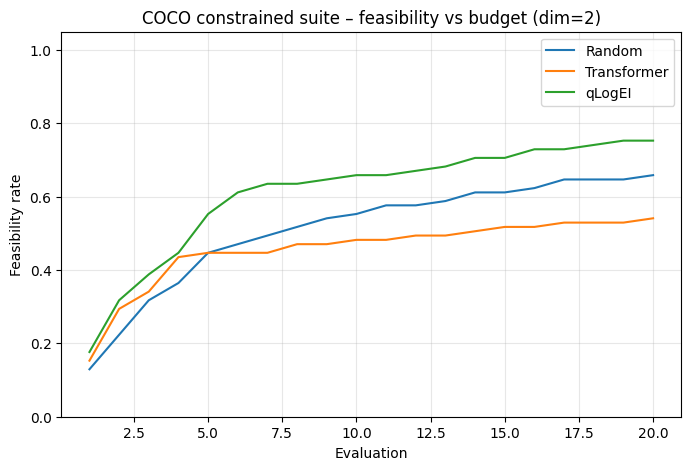
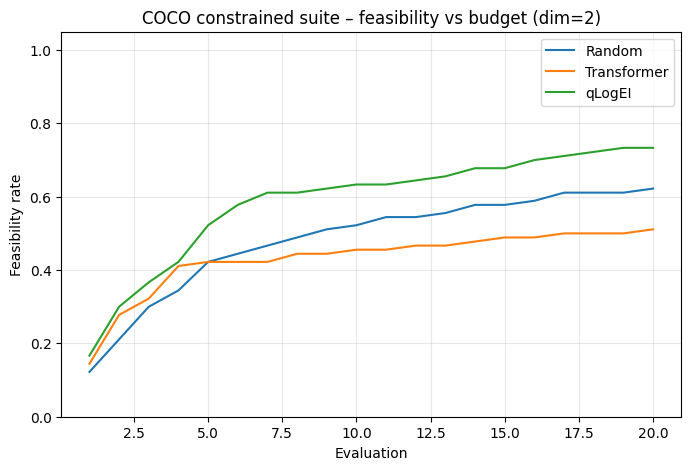
Final commit

Changed region(s): [[0.1216, 0.2979, 0.9421, 0.8043]]

diff --git a/src/plot_graphs.py b/src/plot_graphs.py
@@ -14,8 +14,8 @@ import pandas as pd
 import matplotlib.pyplot as plt
 
 
-TRAIN_LOG_DIR = Path("../training_logs")
-BENCH_CSV = Path("../results_coco_transformer_vs_qlogei.csv")
+TRAIN_LOG_DIR = Path("training_logs")
+BENCH_CSV = Path("results/results_coco_transformer_vs_qlogei.csv")
 PLOTS_DIR = Path("plots")
 PLOTS_DIR.mkdir(exist_ok=True, parents=True)
 
@@ -27,17 +27,38 @@ def plot_training(dim: int):
         return
 
     df = pd.read_csv(csv_path)
+
+    # ---------------- Linear scale plot ----------------
     plt.figure()
     plt.plot(df["epoch"], df["train_mse"], label="train MSE")
     plt.plot(df["epoch"], df["val_mse"], label="val MSE")
     plt.xlabel("Epoch")
     plt.ylabel("MSE")
-    plt.title(f"Training loss (dim={dim})")
+    plt.title(f"Training loss (dim={dim}) – linear scale")
     plt.legend()
     out_path = PLOTS_DIR / f"training_dim{dim}.png"
     plt.savefig(out_path, bbox_inches="tight")
     plt.close()
     print(f"[plot_training] Saved {out_path}")
+
+    # ---------------- Log scale plot ----------------
+    # Clip to avoid log(0); change eps if your losses get very small
+    eps = 1e-10
+    train_mse = np.clip(df["train_mse"].values, eps, None)
+    val_mse = np.clip(df["val_mse"].values, eps, None)
+
+    plt.figure()
+    plt.plot(df["epoch"], train_mse, label="train MSE")
+    plt.plot(df["epoch"], val_mse, label="val MSE")
+    plt.yscale("log")
+    plt.xlabel("Epoch")
+    plt.ylabel("MSE (log scale)")
+    plt.title(f"Training loss (dim={dim}) – log scale")
+    plt.legend()
+    out_path_log = PLOTS_DIR / f"training_dim{dim}_log.png"
+    plt.savefig(out_path_log, bbox_inches="tight")
+    plt.close()
+    print(f"[plot_training] Saved {out_path_log}")
 
 
 def plot_benchmark():
@@ -47,36 +68,81 @@ def plot_benchmark():
 
     df = pd.read_csv(BENCH_CSV)
 
+    # Ensure numeric, let pandas parse 'inf' → np.inf
+    df["best_feasible"] = pd.to_numeric(df["best_feasible"], errors="coerce")
+
+    PLOTS_DIR.mkdir(exist_ok=True, parents=True)
+
     for dim in sorted(df["dim"].unique()):
         df_d = df[df["dim"] == dim]
         methods = sorted(df_d["method"].unique())
-        max_eval = df_d["eval"].max()
 
-        plt.figure()
+        # ---------- Plot mean best-feasible vs eval ----------
+        plt.figure(figsize=(8, 5))
+
         for m in methods:
             df_m = df_d[df_d["method"] == m]
-            # Aggregate over all functions / instances / repetitions
+
+            # Group by eval
             grp = df_m.groupby("eval")["best_feasible"]
-            mean = grp.mean()
-            std = grp.std()
+
+            # Replace inf by NaN for aggregation (we only average over finite values)
+            mean = grp.apply(lambda s: s.replace([np.inf, -np.inf], np.nan).mean())
+            std = grp.apply(lambda s: s.replace([np.inf, -np.inf], np.nan).std())
 
             evals = mean.index.values
-            plt.plot(evals, mean.values, label=m)
+            mean_vals = mean.values
+            std_vals = std.values
+
+            # Skip if everything is NaN (e.g. method never finds feasible points)
+            if np.all(np.isnan(mean_vals)):
+                print(f"[plot_benchmark] dim={dim}, method={m}: no finite values to plot.")
+                continue
+
+            # For plotting, it's fine to have some NaNs; matplotlib will break the line there.
+            plt.plot(evals, mean_vals, label=m)
             plt.fill_between(
                 evals,
-                (mean - std).values,
-                (mean + std).values,
+                mean_vals - std_vals,
+                mean_vals + std_vals,
                 alpha=0.2,
-            )
+                )
 
         plt.xlabel("Evaluation")
-        plt.ylabel("Best feasible (lower is better)")
-        plt.title(f"COCO constrained suite – dim={dim}")
+        plt.ylabel("Best feasible objective (lower is better)")
+        plt.title(f"COCO constrained suite – mean best-feasible vs budget (dim={dim})")
         plt.legend()
+        plt.grid(alpha=0.3)
         out_path = PLOTS_DIR / f"benchmark_dim{dim}.png"
         plt.savefig(out_path, bbox_inches="tight")
         plt.close()
         print(f"[plot_benchmark] Saved {out_path}")
+
+        # ---------- OPTIONAL: Plot feasibility vs eval ----------
+        # This is nice to "prove" that Transformer hurts feasibility.
+        plt.figure(figsize=(8, 5))
+        for m in methods:
+            df_m = df_d[df_d["method"] == m]
+            grp = df_m.groupby("eval")["best_feasible"]
+
+            # Feasibility rate = fraction of finite values
+            feas = grp.apply(lambda s: np.isfinite(s).mean())
+
+            evals = feas.index.values
+            feas_vals = feas.values
+
+            plt.plot(evals, feas_vals, label=m)
+
+        plt.xlabel("Evaluation")
+        plt.ylabel("Feasibility rate")
+        plt.ylim(0, 1.05)
+        plt.title(f"COCO constrained suite – feasibility vs budget (dim={dim})")
+        plt.legend()
+        plt.grid(alpha=0.3)
+        out_path_feas = PLOTS_DIR / f"benchmark_feasibility_dim{dim}.png"
+        plt.savefig(out_path_feas, bbox_inches="tight")
+        plt.close()
+        print(f"[plot_benchmark] Saved {out_path_feas}")
 
 
 def main():

diff --git a/src/new_benchmark.py b/src/new_benchmark.py
@@ -65,8 +65,8 @@ N_INIT_FACTOR = 2    # initial random design = N_INIT_FACTOR * dim
 TRANSFORMER_MODEL_DIR = Path("..")
 TRANSFORMER_MODEL_PATTERN = "next_config_transformer_dim{dim}.pt"
 
-OUT_CSV = Path("../results_coco_transformer_vs_qlogei.csv")
-OUT_CSV_SUMMARY = Path("../results_coco_transformer_vs_qlogei_summary.csv")
+OUT_CSV = Path("results/results_coco_transformer_vs_qlogei.csv")
+OUT_CSV_SUMMARY = Path("results/results_coco_transformer_vs_qlogei_summary.csv")
 
 DEVICE = torch.device("cuda" if torch.cuda.is_available() else "cpu")
 DTYPE = torch.double  # BoTorch prefers double for qLogEI

diff --git a/src/train_model.py b/src/train_model.py
@@ -271,7 +271,7 @@ def train_next_config_model_for_dim_from_cache(
     model_path = Path(model_path)
 
     if log_csv_path is None:
-        log_csv_path = Path("../training_logs") / f"training_dim{dim}.csv"
+        log_csv_path = Path("training_logs") / f"training_dim{dim}.csv"
     log_csv_path = Path(log_csv_path)
     log_csv_path.parent.mkdir(parents=True, exist_ok=True)
 
